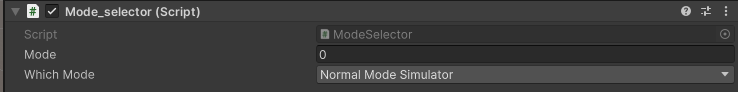
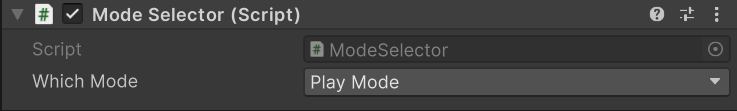
Update README

diff --git a/OperaSimVR_CHAPTER1.md b/OperaSimVR_CHAPTER1.md
@@ -8,7 +8,7 @@ In this system, two PCs are used: one for launching OperaSimVR (PC_A), and anoth
 
 ## Install
 #### OPERASimVR(PC_A)
-Clone from ~~~~~~~~~ on PC_A.
+Clone from https://github.com/irvs/OperaSimVR on PC_A.
 
 #### Unity(PC_A)
 If a Unity environment is not available, set up the Unity environment on PC_A. The operating system should preferably be either Windows or macOS. Install Unity Hub from https://unity.com/ja/download, and install Unity Editor version 2022.3.4f1 from https://unity.com/ja/releases/editor/archive.
@@ -85,14 +85,13 @@ Set from the "PoseSubscriber" attached to the construction machine.
 **explanation of parameter**
 | parameter name | description |
 |--------|---------|
+|ChengePosition_sw | Check if you want to change the position of the construction machine model(You can switch it on and off even while playing).
 |ViaDB | Check this box if you want to retrieve information via a database. 
 |WorldToMap | Check this box to convert the acquired coordinate values from the world coordinate system to the map coordinate system.
 |PoseMsgType | Select the topic type of the topic you want to subscribe to.
-|SimPhysXSubscribeTopicName | Specify the topic name of PhysX location information (for operation test).
-|SimAGXSubscribeTopicName | Specify the topic name of AGX location information (for operation test).
-|RealSubscribeTopicName | Specify the topic name that publishes the position and joint information of the actual machine.
+|PoseSubscribeTopicName | Specify the topic name that publishes the position and joint information of the actual machine.
 |ViaDBSubscribeTopicName | Specifies the topic name when going through a database.
-|ChengePosition_sw | Check if you want to change the position of the construction machine model(You can switch it on and off even while playing).
+|ViaDBSubscribeTopicName | Select a right-handed or left-handed coordinate system.
 |MapMachinePosition | Don't change.
 |MapMachineRotation | Don't change.
 
@@ -112,7 +111,7 @@ The origin of the map coordinates in the world coordinate system is specified by
 
 
 
-<img src=images/OperaSimVR/ModelName.png width="500px">
+<img src=images/OperaSimVR/ModelIdentifer.png width="500px">
 
 
 ***
@@ -124,11 +123,10 @@ Set from the "JointSubscriber" attached to the construction machine.
 |--------|---------|
 |ViaDB | Check this box if you want to retrieve information via a database. 
 |JointChangeSw | Check if you want to change the joint angles of the construction machine model(You can switch it on and off even while playing).
-|SimPhysXSubscribeTopicName | Specify the topic name of PhysX location information (for operation test).
-|SimAGXSubscribeTopicName | Specify the topic name of AGX location information (for operation test).
 |RealSubscribeTopicName | Specify the topic name that publishes the position and joint information of the actual machine.
 |ViaDBSubscribeTopicName | Specifies the topic name when going through a database.
 |JointPositions | Don't change.
+|Offsets | Correct the offset of each joint angle.
 
 ![](images/OperaSimVR/JointSubscriber.png)
 
@@ -141,16 +139,13 @@ The above describes the configuration required for each piece of construction eq
 ### §1.2 The configuration required in the environment to use Play Mode
 The following explains the configuration required in the environment to use Play Mode.
 
-### §1.2.1 configuration of the connection target (simulator or actual machine)
-When using it with the real heavy machinery, set the parameter "ForSimOrReal" of the script "FieldMainManager" attached to "FieldManager" to "ForReal". For operation testing with PhysX or AGX, set SimOrReal to ForSimPhysX or ForSimAGX instead. By changing this, the topic name, topic type, and the type of information transmitted and received will be altered. Avoid changing it during play.
-![](images/OperaSimVR/FieldManeger.png)
 
-### §1.2.2 configuration of using mode
+### §1.2.1 configuration of using mode
 If you want to change the mode, modify the parameter "WhichMode" of script "ModeSelector" attached to "FieldManager": set it to "NomalModeSimulator" for "NomalMode", "PlayMode" for "PlayMode", and "PrevievMode" for "PrevievMode". When you use PlayMode, set "WhichMode" to "PlayMode".
 
 ![](images/OperaSimVR/ModeSelector.png)
 
-### §1.2.3 Setting the origin of the map coordinate system in the cyber space.
+### §1.2.2 Setting the origin of the map coordinate system in the cyber space.
 Move the object's "MapReferencePoint" to the same position in the cyberspace field as the origin of the map coordinate system of the actual field.
 
 ***

diff --git a/OperaSimVR_CHAPTER2.md b/OperaSimVR_CHAPTER2.md
@@ -40,9 +40,7 @@ Note: From this point on, operating the VR controller or the keyboard will send 
 |Emergency | - | Setting this to true will trigger an emergency stop of the actual machine. It sends a command to the emergency stop topic with motion instructions set to 0 [m/s] or 0 [rad/s]. Make sure to properly configure both the "EmergencyTopicName" and "RealPublishTopicName" before operating the actual machine.
 |Key | - | Set to "false" when using a VR headset. Set to "true" when not using one.
 |Use Ros2 Topic| - | Set to "false" if you want to operate the construction equipment model in "normal mode." Set to "true" if you want it to operate based on external commands without manual control within the system.
-| SimPhysX Publish TopicName | geometry_msgs/msg/Twist [m/s][rad/s] | Set this option if you want to connect to PhysX and verify the operation (for testing purposes).
-| SimAGX Publish TopicName | Geometry_msg/msg/Twist [m/s][rad/s] | Set this option if you want to connect to AGX and verify the operation (for testing purposes).
-|Real Publish TopicName| Geometry_msg/msg/Twist [m/s][rad/s] | Set the topic name for sending motion commands to the actual machine.
+|Twist Publish TopicName| Geometry_msg/msg/Twist [m/s][rad/s] | Set the topic name for sending motion commands to the actual machine.
 |Emergncy TopicName| std_msgs/msg/Bool | The topic name for sending emergency stop commands.
 |LinearSpeed| [m/s] | Specifies the maximum value [m/s] for forward and backward (linear) motion commands sent to the actual machine. When the VR D-pad (Axis2D.SecondaryThumbstick) is fully tilted or the arrow keys are pressed, the machine will accelerate up to this speed.
 |RotSpeed| [rad/s] | Specifies the maximum value [rad/s] for rotational (angular) motion commands sent to the actual machine. When the VR D-pad (Axis2D.SecondaryThumbstick) is fully tilted or the arrow keys are pressed, the machine will accelerate up to this turning speed.